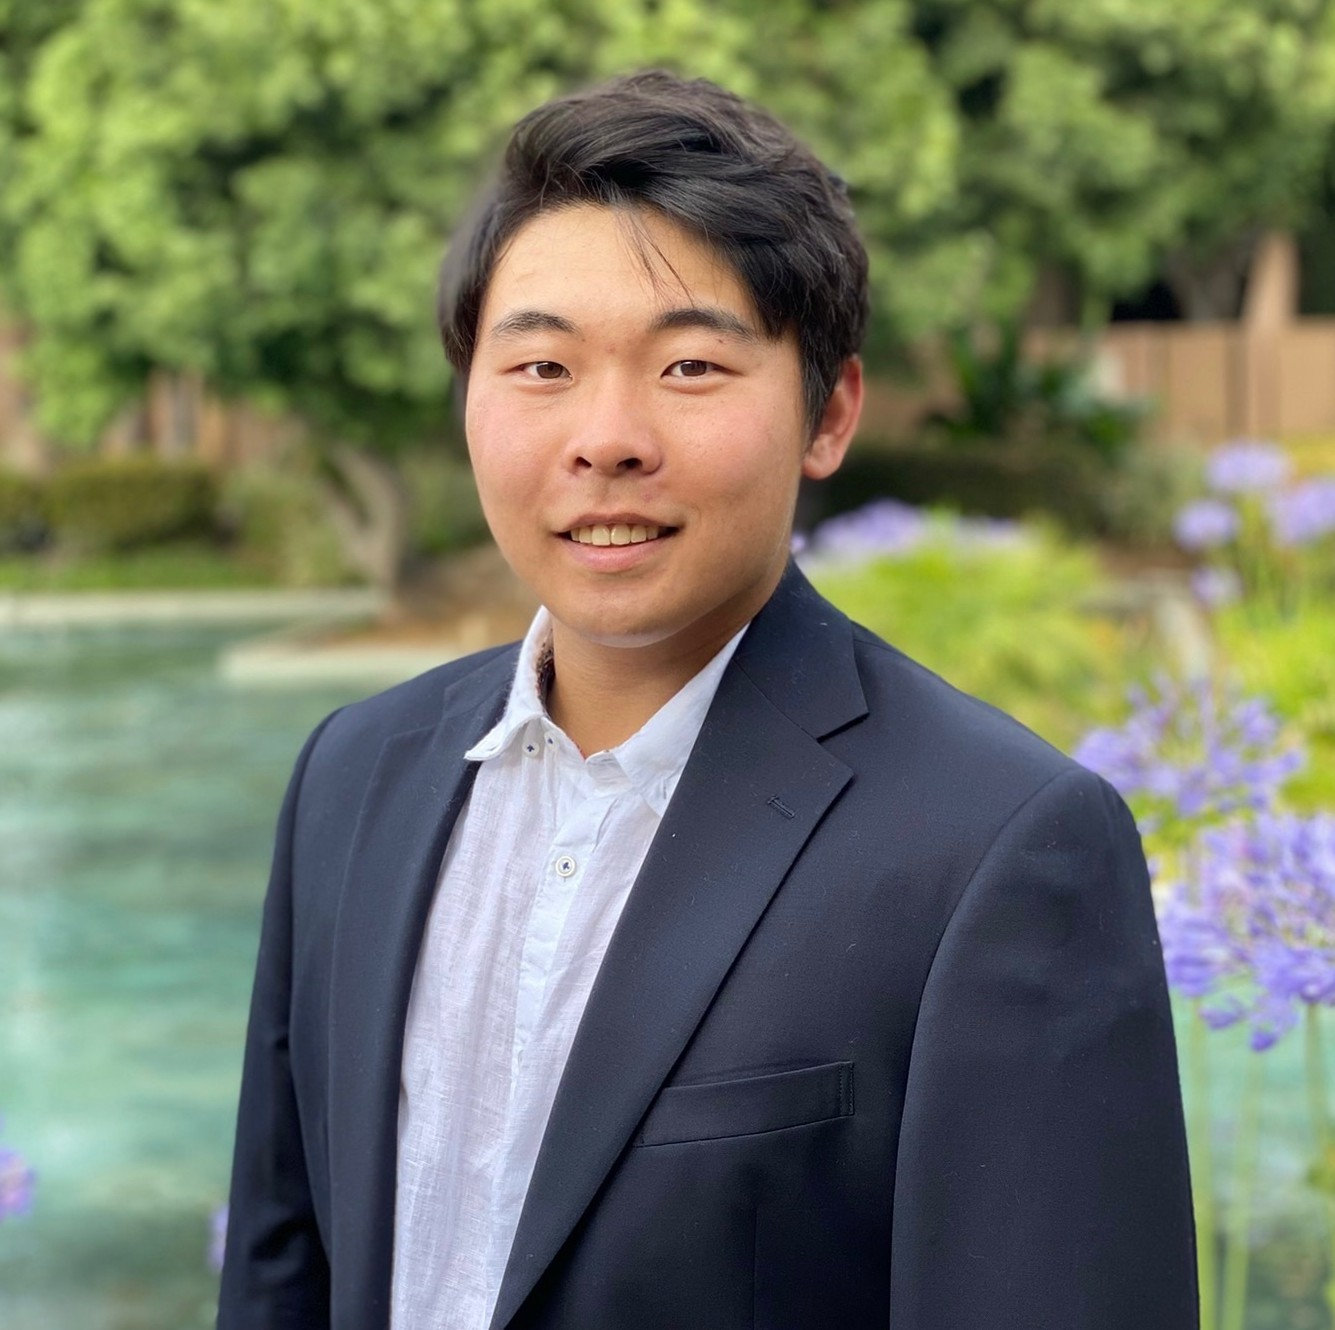
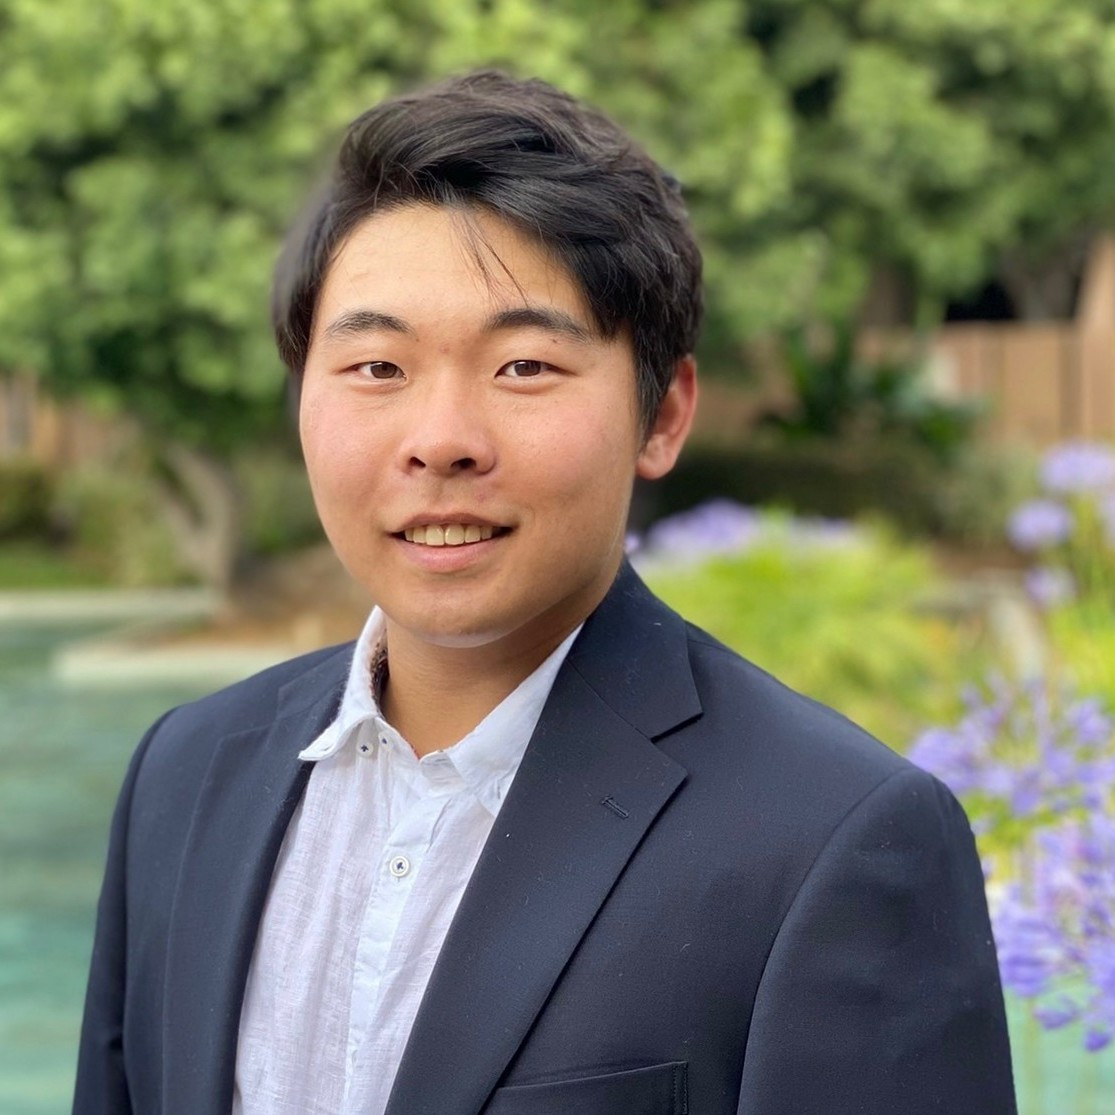
profile pic stuff

diff --git a/index.html b/index.html
@@ -115,7 +115,7 @@
 
             <div class="intro-info">
 
-               <img src="images/profilepic.JPG" alt="Profile Picture">
+               <img src="images/profilepic.png" alt="Profile Picture">
 
                <p class="lead">I'm a Product Manager seeking a role in the tech / bio-med industry. I'm a Claremont McKenna class of 2022 B.A. in Economics & Engineering, WashU class of 2024 B.S. in Computer Engineering, and WashU class of 2025 M.S. in Engineering Management. My primary interests have been incorporating AI and machine learning in the medical field as well as the finance sector. </p>
             </div>            
